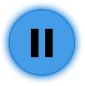
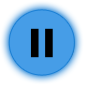
APPLINK 3206 Add head guards, fix picture size

diff --git a/src/components/qt_hmi/qml_model/views/PlayerView.qml b/src/components/qt_hmi/qml_model/views/PlayerView.qml
@@ -1,4 +1,36 @@
-import QtQuick 2.0
+/**
+ * \file PlayerView.qml
+ * \brief BT, IPod, CD player view screen.
+ * Copyright (c) 2013, Ford Motor Company
+ * All rights reserved.
+ *
+ * Redistribution and use in source and binary forms, with or without
+ * modification, are permitted provided that the following conditions are met:
+ *
+ * Redistributions of source code must retain the above copyright notice, this
+ * list of conditions and the following disclaimer.
+ *
+ * Redistributions in binary form must reproduce the above copyright notice,
+ * this list of conditions and the following
+ * disclaimer in the documentation and/or other materials provided with the
+ * distribution.
+ *
+ * Neither the name of the Ford Motor Company nor the names of its contributors
+ * may be used to endorse or promote products derived from this software
+ * without specific prior written permission.
+ *
+ * THIS SOFTWARE IS PROVIDED BY THE COPYRIGHT HOLDERS AND CONTRIBUTORS "AS IS"
+ * AND ANY EXPRESS OR IMPLIED WARRANTIES, INCLUDING, BUT NOT LIMITED TO, THE
+ * IMPLIED WARRANTIES OF MERCHANTABILITY AND FITNESS FOR A PARTICULAR PURPOSE
+ * ARE DISCLAIMED. IN NO EVENT SHALL THE COPYRIGHT HOLDER OR CONTRIBUTORS BE
+ * LIABLE FOR ANY DIRECT, INDIRECT, INCIDENTAL, SPECIAL, EXEMPLARY, OR
+ * CONSEQUENTIAL DAMAGES (INCLUDING, BUT NOT LIMITED TO, PROCUREMENT OF
+ * SUBSTITUTE GOODS OR SERVICES; LOSS OF USE, DATA, OR PROFITS; OR BUSINESS
+ * INTERRUPTION) HOWEVER CAUSED AND ON ANY THEORY OF LIABILITY, WHETHER IN
+ * CONTRACT, STRICT LIABILITY, OR TORT (INCLUDING NEGLIGENCE OR OTHERWISE)
+ * ARISING IN ANY WAY OUT OF THE USE OF THIS SOFTWARE, EVEN IF ADVISED OF THE
+ * POSSIBILITY OF SUCH DAMAGE.
+ */
 
 import QtQuick 2.0
 import "../controls"
@@ -16,11 +48,6 @@ Item {
         anchors.left: parent.left
         anchors.right: parent.right
 
-        Rectangle {
-            anchors.fill: parent
-            color: "lightgreen"
-        }
-
         LongOvalButton {
             text: playerType
             pixelSize: 20
@@ -36,6 +63,7 @@ Item {
             anchors.top: parent.top
         }
 
+        // Middle row with picture and text near it
         Row {
             anchors.verticalCenter: parent.verticalCenter
             anchors.left: parent.left
@@ -79,34 +107,40 @@ Item {
 
             Text {
                 id: time
+                anchors.left: parent.left
+                anchors.leftMargin: 1/10 * parent.width
                 anchors.verticalCenter: parent.verticalCenter
                 color: "white"
                 text: "02:36"
                 font.pixelSize: 18
             }
 
-            Rectangle {
-                id: firstRect
+            Row {
+                anchors.horizontalCenter: parent.horizontalCenter
                 anchors.verticalCenter: parent.verticalCenter
-                anchors.left: time.right
-                anchors.leftMargin: parent.width * 1/50
-                height: 2
-                width: 1/5 * parent.width
-                color: "white"
-            }
+                height: parent.height
+                width: 2/3 * parent.width
 
-            Rectangle {
-                id: secondRect
-                anchors.left: firstRect.right
-                anchors.verticalCenter: parent.verticalCenter
-                height: 2
-                width: 2/5 * parent.width
-                color: "#1d81d5"
-            }
+                           Rectangle {
+                               id: firstRect
+                               anchors.verticalCenter: parent.verticalCenter
+                               height: 2
+                               width: 1/3 * parent.width
+                               color: "white"
+                           }
 
-            Text {
-                anchors.left: secondRect.right
-                anchors.leftMargin: parent.width * 1/50
+                           Rectangle {
+                               id: secondRect
+                               anchors.verticalCenter: parent.verticalCenter
+                               height: 2
+                               width: 2/3 * parent.width
+                               color: "#1d81d5"
+                           }
+            }
+  Text {
+
+                anchors.right: parent.right
+                anchors.rightMargin: 1/10 * parent.width
                 anchors.verticalCenter: parent.verticalCenter
                 color: "#1d81d5"
                 text: "04:23"
@@ -115,19 +149,12 @@ Item {
         }
     }
 
-
     Item{
         // 1/4 bottom screen
         anchors.bottom: parent.bottom
         anchors.left: parent.left
         width: parent.width
         height: 1/4 * parent.height
-
-        Rectangle{
-
-            anchors.fill: parent
-            color: "grey"
-        }
 
         Row {
 

diff --git a/src/components/qt_hmi/qml_model/controls/PlayPauseButton.qml b/src/components/qt_hmi/qml_model/controls/PlayPauseButton.qml
@@ -1,3 +1,37 @@
+/**
+ * \file PlayPauseButton.qml
+ * \brief Behavior of Play/Pause button.
+ * Copyright (c) 2013, Ford Motor Company
+ * All rights reserved.
+ *
+ * Redistribution and use in source and binary forms, with or without
+ * modification, are permitted provided that the following conditions are met:
+ *
+ * Redistributions of source code must retain the above copyright notice, this
+ * list of conditions and the following disclaimer.
+ *
+ * Redistributions in binary form must reproduce the above copyright notice,
+ * this list of conditions and the following
+ * disclaimer in the documentation and/or other materials provided with the
+ * distribution.
+ *
+ * Neither the name of the Ford Motor Company nor the names of its contributors
+ * may be used to endorse or promote products derived from this software
+ * without specific prior written permission.
+ *
+ * THIS SOFTWARE IS PROVIDED BY THE COPYRIGHT HOLDERS AND CONTRIBUTORS "AS IS"
+ * AND ANY EXPRESS OR IMPLIED WARRANTIES, INCLUDING, BUT NOT LIMITED TO, THE
+ * IMPLIED WARRANTIES OF MERCHANTABILITY AND FITNESS FOR A PARTICULAR PURPOSE
+ * ARE DISCLAIMED. IN NO EVENT SHALL THE COPYRIGHT HOLDER OR CONTRIBUTORS BE
+ * LIABLE FOR ANY DIRECT, INDIRECT, INCIDENTAL, SPECIAL, EXEMPLARY, OR
+ * CONSEQUENTIAL DAMAGES (INCLUDING, BUT NOT LIMITED TO, PROCUREMENT OF
+ * SUBSTITUTE GOODS OR SERVICES; LOSS OF USE, DATA, OR PROFITS; OR BUSINESS
+ * INTERRUPTION) HOWEVER CAUSED AND ON ANY THEORY OF LIABILITY, WHETHER IN
+ * CONTRACT, STRICT LIABILITY, OR TORT (INCLUDING NEGLIGENCE OR OTHERWISE)
+ * ARISING IN ANY WAY OUT OF THE USE OF THIS SOFTWARE, EVEN IF ADVISED OF THE
+ * POSSIBILITY OF SUCH DAMAGE.
+ */
+
 import QtQuick 2.0
 
 Image {
